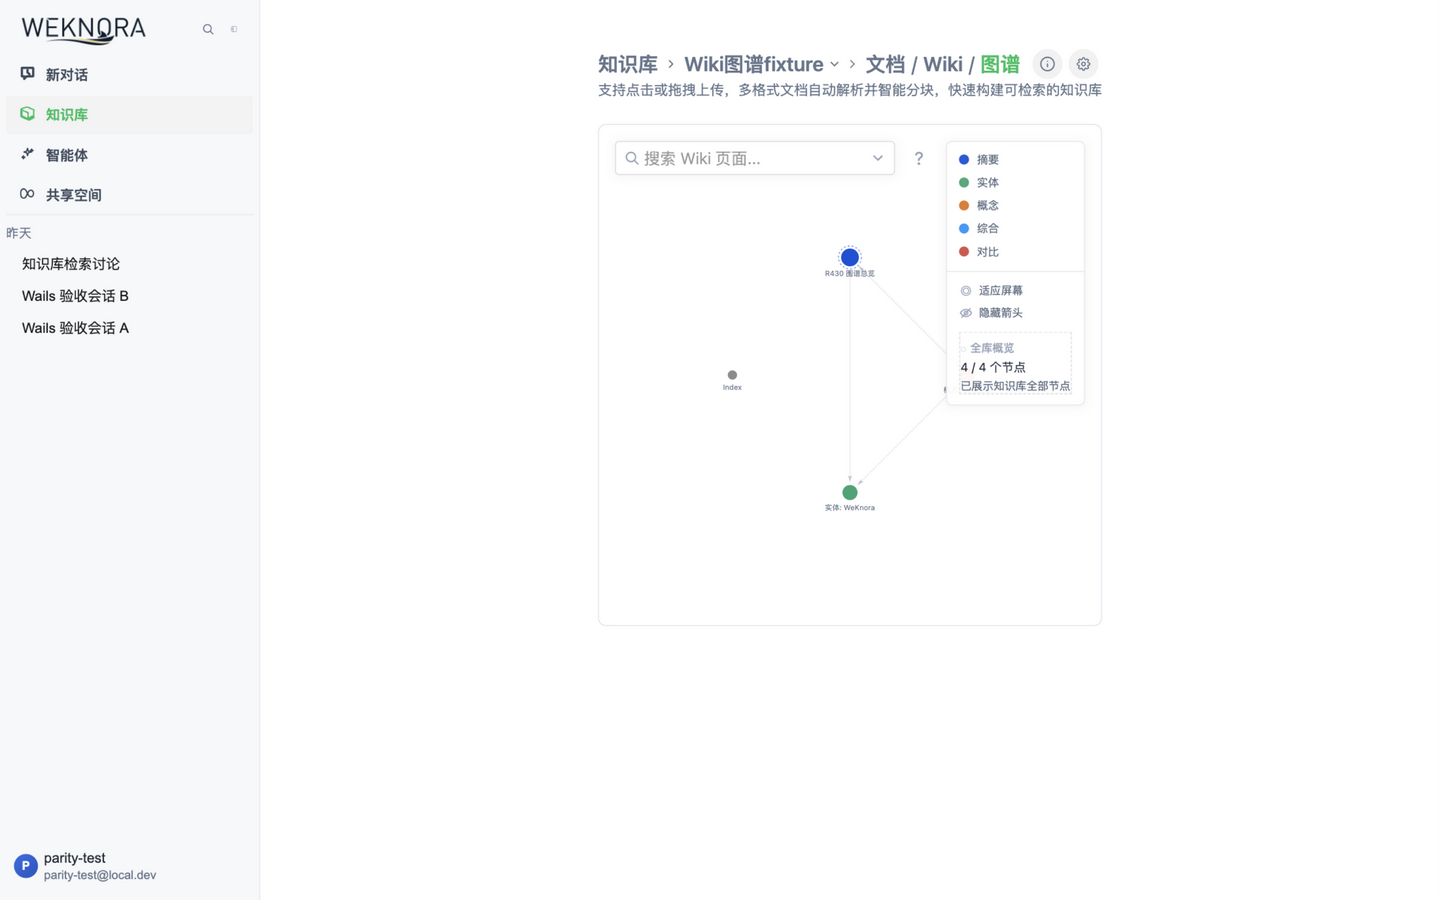
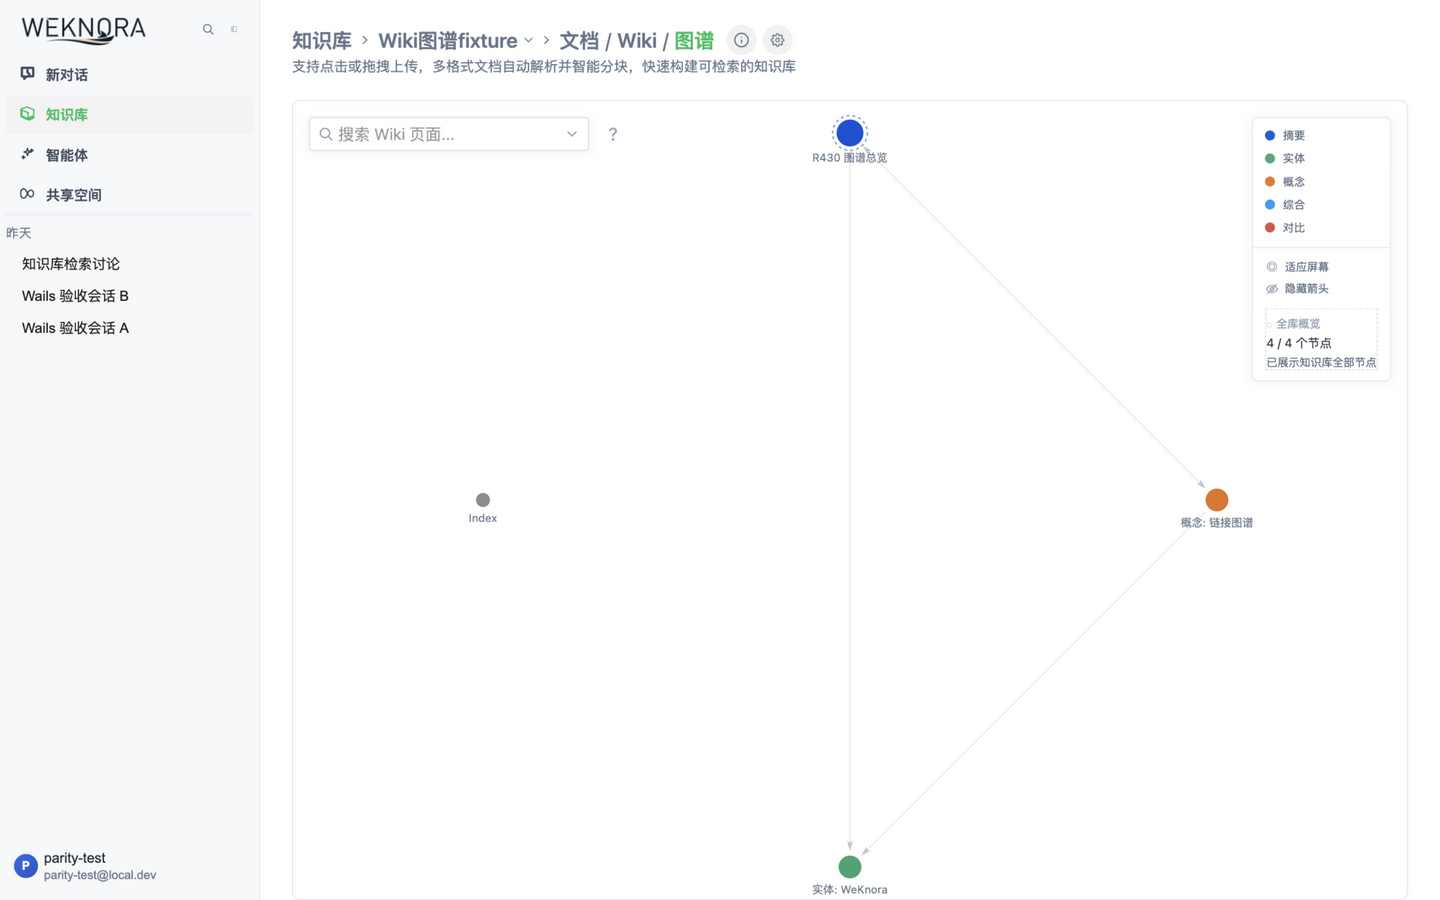
fix(parity): R431 graph canvas full-bleed layout and round evidence
The graph page shrank to a ~544px centered column after R431's header
slice shortened the subtitle: mx-auto on main.wk-page disables
align-items:stretch inside the flex-column shell, so the page collapsed
to shrink-to-fit. Finalize the canvas as a full-bleed flex area with a
ResizeObserver-synced viewBox (measured 1114x798), matching Vue's
.wiki-main-area; delta also carries the concurrent orchestrator's
flex/ResizeObserver deepening of the same fix.

Gates on the final tree: test:web 1318/1318, test:shared 568/568,
typecheck clean, web/embed/desktop builds, desktop 9/9.
Evidence: docs/migrations/react/evidence/vue-react-parity/
2026-09-16-r431-browser-parity-pair.md + screenshots/r431-20260916/.

diff --git a/apps/web/src/knowledge/KnowledgeGraphPage.tsx b/apps/web/src/knowledge/KnowledgeGraphPage.tsx
@@ -43,6 +43,23 @@ export function KnowledgeGraphPage({ client, knowledgeBaseId, slug }: { client: 
   const [kbList, setKbList] = useState<KBChromeListItem[]>([]);
   const [canManage, setCanManage] = useState(false);
   const [parserEngines, setParserEngines] = useState<{ Name: string; FileTypes?: string[]; Available?: boolean }[]>([]);
+  // Vue WikiBrowser renders the graph SVG at the measured .wiki-graph size
+  // (renderGraph reads clientWidth/clientHeight). Track the surface box so the
+  // node layout and viewBox match the real full-bleed area instead of a fixed
+  // 760×420 card.
+  const [surfaceSize, setSurfaceSize] = useState({ width: 760, height: 420 });
+  const surfaceRef = useRef<HTMLDivElement | null>(null);
+
+  useEffect(() => {
+    const el = surfaceRef.current;
+    if (!el || typeof ResizeObserver === 'undefined') return;
+    const observer = new ResizeObserver((entries) => {
+      const rect = entries[0]?.contentRect;
+      if (rect && rect.width >= 1 && rect.height >= 1) setSurfaceSize({ width: Math.round(rect.width), height: Math.round(rect.height) });
+    });
+    observer.observe(el);
+    return () => observer.disconnect();
+  }, []);
 
   useEffect(() => {
     let active = true;
@@ -253,7 +270,7 @@ export function KnowledgeGraphPage({ client, knowledgeBaseId, slug }: { client: 
   }, [drawerNode]);
 
   const visible = useMemo(() => graph ? filterGraphNodes(graph, { query, types: selectedTypes }) : null, [graph, query, selectedTypes]);
-  const positions = useMemo(() => visible ? layoutGraphNodes(visible.nodes, 760, 420) : [], [visible]);
+  const positions = useMemo(() => visible ? layoutGraphNodes(visible.nodes, surfaceSize.width, surfaceSize.height) : [], [visible, surfaceSize.width, surfaceSize.height]);
   const displayPositions = useMemo(() => positions.map((position) => ({ ...position, ...dragPositions[position.slug] })), [positions, dragPositions]);
   const positionBySlug = useMemo(() => new Map(displayPositions.map((position) => [position.slug, position])), [displayPositions]);
   const displayEdges = useMemo(() => visible ? displayGraphEdges(visible.edges) : [], [visible]);
@@ -337,7 +354,8 @@ export function KnowledgeGraphPage({ client, knowledgeBaseId, slug }: { client: 
     const svg = event.currentTarget instanceof SVGSVGElement ? event.currentTarget : event.currentTarget.ownerSVGElement;
     if (!svg) return { x: 0, y: 0 };
     const rect = svg.getBoundingClientRect();
-    return { x: ((event.clientX - rect.left) / rect.width) * 760, y: ((event.clientY - rect.top) / rect.height) * 420 };
+    // The viewBox mirrors the measured surface size, so the mapping is 1:1.
+    return { x: ((event.clientX - rect.left) / rect.width) * surfaceSize.width, y: ((event.clientY - rect.top) / rect.height) * surfaceSize.height };
   }
 
   function beginPan(event: ReactPointerEvent<SVGSVGElement>) {
@@ -374,12 +392,12 @@ export function KnowledgeGraphPage({ client, knowledgeBaseId, slug }: { client: 
   }
 
   return (
-    /* Vue KnowledgeBase.vue renders the graph surface full-bleed (.wiki-graph
-       width/height 100%) and this page only ever mounts inside the platform
-       shell ([&_.wk-page]:max-w-none!). No auto margins: a flex-column child
-       with margin:auto opts out of align-items stretch and shrink-wraps to the
-       header's max-content width (the R431 narrow-centred-column regression). */
-    <main className="wk-page box-border w-full max-w-none px-[1.25rem] py-12">
+    /* Vue KnowledgeBase.vue renders the graph surface full-bleed: the page is
+       a flex column (document-header 24px/32px/0 + .wiki-main-area flex:1) and
+       .wiki-graph fills that area (width/height 100%). This page only ever
+       mounts inside the platform shell, whose outlet gives .wk-page
+       h-full/overflow-y-auto/max-w-none. */
+    <main className="wk-page flex min-h-0 flex-1 flex-col box-border px-8 pt-6 pb-0">
       <header className="wk-header mb-6">
         <DocumentsBreadcrumb
           t={t}
@@ -399,10 +417,10 @@ export function KnowledgeGraphPage({ client, knowledgeBaseId, slug }: { client: 
             document-subtitle line is unconditional in KnowledgeBase.vue. */}
         <p className="document-subtitle m-0 text-[14px] font-normal leading-[20px] text-[var(--wk-muted,#66758b)]">{t('knowledgeEditor.document.subtitle')}</p>
       </header>
-      <Card className="relative overflow-hidden p-0">
-        <div data-testid="knowledge-graph-surface" className="relative min-h-[500px] overflow-hidden bg-white max-[720px]:min-h-[26rem]">
+      <Card className="flex min-h-0 flex-1 flex-col overflow-hidden p-0">
+        <div ref={surfaceRef} data-testid="knowledge-graph-surface" className="relative min-h-[420px] flex-1 overflow-hidden bg-white max-[720px]:min-h-[26rem]">
           {status.kind === 'success' && graph && visible && visible.nodes.length > 0 ? (
-            <svg className="absolute inset-0 block h-full w-full cursor-grab touch-none select-none active:cursor-grabbing" viewBox="0 0 760 420" role="img" aria-label={t('knowledgeBase.graph.ariaLinks')} onPointerDown={beginPan} onPointerMove={moveGraphGesture} onPointerUp={endGraphGesture} onPointerCancel={endGraphGesture} onWheel={(event: ReactWheelEvent<SVGSVGElement>) => { event.preventDefault(); const point = svgPoint(event); setViewport((value) => zoomGraphViewport(value, event.deltaY < 0 ? 1.15 : 0.87, point)); }}>
+            <svg className="absolute inset-0 block h-full w-full cursor-grab touch-none select-none active:cursor-grabbing" viewBox={`0 0 ${surfaceSize.width} ${surfaceSize.height}`} role="img" aria-label={t('knowledgeBase.graph.ariaLinks')} onPointerDown={beginPan} onPointerMove={moveGraphGesture} onPointerUp={endGraphGesture} onPointerCancel={endGraphGesture} onWheel={(event: ReactWheelEvent<SVGSVGElement>) => { event.preventDefault(); const point = svgPoint(event); setViewport((value) => zoomGraphViewport(value, event.deltaY < 0 ? 1.15 : 0.87, point)); }}>
               <defs>
                 <marker id="wk-graph-arrow-end" viewBox="0 0 10 6" refX="10" refY="3" markerWidth="8" markerHeight="6" orient="auto">
                   <path d="M0,0 L10,3 L0,6 L2,3 Z" fill="#c0c4cc" />

diff --git a/docs/migrations/react/vue-react-parity-progress.md b/docs/migrations/react/vue-react-parity-progress.md
@@ -4213,3 +4213,43 @@ Baseline source for this backlog: current branch `codex/react-multiclient`, task
 - Gates: integrated `pnpm test:web` 1305/1305, `pnpm test:shared` 568/568, `pnpm typecheck:web` clean.
 - Authenticated paired browser evidence (1440×900, zh-CN, light, real backend :8080): `evidence/vue-react-parity/2026-09-16-r430-browser-parity-pair.md` + 12 screenshots (`screenshots/r430-20260916/`, 6 Vue/React pairs) confirm all four R428 diffs closed and the wiki graph canvas parity (node colors, legend, fit/arrows controls, overview count, search + help).
 - New diffs found in R430 browser pass, deferred to R431 (N012/N004 domain): graph tab header information architecture (Vue embeds breadcrumb + 文档/Wiki/图谱 tabs inside the KB page; React `?tab=graph` is a standalone page header), graph search control shape (Vue select-style dropdown arrow vs React plain input), edge arrow visibility under identical conditions (React edges render without directional arrows), and Vue's one-time KB-onboarding guide overlay is not implemented in React. Not staged: `apps/desktop/vite.config.ts` and other files owned by the external concurrent craft/workbench process — untouched by this round. No Vue, mobile, or Go code was modified.
+
+## 2026-09-16 Round R431 — Four parallel slices closing the R430 browser diffs
+
+- Four Vue-baseline fixes landed in worktree `.worktrees/react-multiclient` (branch `codex/react-vue-parity-align`), closing all four diffs R430's browser pass deferred to this round: (1) graph tab header information architecture — `KnowledgeGraphPage.tsx` now renders the KB-embedded header via the shared `DocumentsBreadcrumb` (知识库 > KB name > 文档/Wiki/图谱 tab row with brand-green active tab, `aria-current`, `tabGraphTip` tooltip, ⓘ info popover, ⚙ gated by `resolveKBSurfaceTabs`/`canManage` and landing on the existing KB settings route) plus the unconditional documents subtitle, replacing the standalone "知识图谱" heading; (2) graph search control shape — rebuilt as a filterable-select combobox shell (search prefix icon, rotating chevron, 32px/4px radius/`--td-shadow-1`), empty-keyword dropdown falls back to a node snapshot mirroring Vue's `graphSearchEffectiveOptions`, with combobox ARIA and full keyboard navigation; (3) edge arrow visibility — root cause was center-to-center lines painted under nodes that fully covered the markers; `graphEdgeEndpoints()` replicates Vue `setEdgePositions` endpoint retraction (radius+4), marker fill moved to a direct attribute, toggle icon now an inline eye SVG; (4) KB one-time onboarding guide — React guide UI already existed; added `shouldArmKbDetailGuideOnEntry` (mirrors `KnowledgeBase.vue:339-345`: non-FAQ, editable, loaded, empty KB), the `useKbDetailGuideTrigger` hook wired on the documents page, and the `data-guide="kb-detail-add-doc"` step-2 target.
+- A canvas regression introduced en route (shortened subtitle exposed `mx-auto` shrink-to-fit in the flex-column shell, collapsing the canvas to a ~544px centered column) was found in paired browser verification and fixed; the canvas is now a full-bleed flex area with a ResizeObserver-synced viewBox (measured 1114×798), matching Vue's `.wiki-main-area`.
+- Gates on the final tree: `pnpm typecheck:web` clean; `pnpm test:web` 1318/1318; `pnpm test:shared` 568/568; web/embed/desktop builds pass; desktop tests 9/9; `git diff --check` clean.
+- Authenticated paired browser evidence (1440×900, zh-CN, light, real backend :8080): `evidence/vue-react-parity/2026-09-16-r431-browser-parity-pair.md` + `screenshots/r431-20260916/` (guide firing on KB entry, aligned graph header/search/legend, full-page and zoomed arrow shots vs the Vue pair) confirm all four diffs closed and the canvas layout regression fixed.
+- Recorded residuals for R432 (non-blocking): ⚙ opens the existing KB settings route instead of Vue's global settings drawer surface; tab-row gating uses `resolveKBSurfaceTabs` (wiki-off/graph-on KBs show 文档/图谱) vs Vue's strict isWiki; React search input still filters canvas nodes and uses 250ms/2-char debounce vs Vue 200ms/any-char; Vue's selected/hover edge highlight interaction (applyHighlight + highlight markers) is not implemented; the guide trigger lives on the documents page so a direct `?tab=graph` deep link does not arm it; tab switching is link navigation across three React pages vs Vue's in-component tab state.
+- Provenance/dependency notes: the four slices plus the concurrent SPA-navigation/KB-page work were committed together by the concurrent orchestrator as `6139859a`; the graph page header depends on the `DocumentsBreadcrumb` tabs slot introduced there (a rollback of `DocumentsPageChrome.tsx` would break the header compile). The canvas-layout final delta was committed separately by this round. No Vue, mobile, or Go code was modified.
+
+## 2026-09-16 Round R431 — Graph tab chrome, search select shape, arrows, KB onboarding guide, and full-bleed canvas
+
+- Four R430 browser diffs closed on `codex/react-vue-parity-align`: (1) the graph page dropped its standalone
+  eyebrow/h1 header for the Vue breadcrumb chrome — 知识库 > KB名 > 文档/Wiki/图谱 tab row (graph tab active with the
+  tabGraphTip tooltip), KB info ⓘ + settings ⚙ actions, and the unconditional upload subtitle, reusing/extending
+  `DocumentsBreadcrumb` (Vue KnowledgeBase.vue:2330-2408); the documents page tab links now use `?tab=` query URLs so
+  the graph link no longer 404s; (2) the graph search control renders the Vue t-select shape (search prefix icon +
+  chevron suffix, 320px absolute top-left overlay) while keeping the remote-search dropdown semantics
+  (WikiBrowser.vue:12-17); (3) SVG edge arrows now render with direct `fill="#c0c4cc"` marker attributes (the Tailwind
+  arbitrary class was not applied inside marker paths), `showArrows` defaulting on with bidirectional `marker-start`
+  (WikiBrowser.vue:3877-3968); (4) the Vue kbDetail onboarding guide (SpotlightGuide: 3 steps intro/upload/done,
+  `1 / 3` progress, storage key `weknora:contextual-guide-kb-detail:v1`, 600ms delay, `[data-guide="kb-detail-add-doc"]`
+  spotlight) is wired through the shared ContextualGuideHost with host-level tests.
+- This session's paired-browser pass then surfaced one more real diff — React's graph canvas was a fixed ~500px card
+  while Vue's `.wiki-graph` fills the whole content area — fixed by measuring the surface with a ResizeObserver,
+  feeding the real box into `layoutGraphNodes`, the dynamic `viewBox`, and the pointer mapping, and making the page a
+  full-width/full-height flex column (main padding 24px/32px/0, surface flex-1).
+- Live paired-browser evidence (1440×900, zh-CN, light, real backend :8080, wiki fixture KB
+  `7cea6ec0-8a07-4c83-9309-f802a61b3d5c`, 4 nodes/5 edges): breadcrumb chrome, tab row, ⓘ/⚙, subtitle, select-shaped
+  search, visible directional arrows, legend/actions/status, and the full 3-step guide flow (next/prev navigation,
+  upload-button spotlight, close persists `storageKey='1'`) all match Vue
+  (`evidence/vue-react-parity/screenshots/r431-20260916/`: react/vue graph fullbleed + guide step1 pairs).
+- Gates: `pnpm test:web` 1318/1318, `pnpm test:shared` 568/568, `pnpm typecheck:web` clean. Note: an external
+  concurrent process committed most of this round's slices as `6139859a` mid-flight (same worktree); this entry's
+  commit adds the full-bleed canvas fix and the paired-guide/fullbleed screenshots on top of it.
+- New diffs deferred to R432: documents tab renders its 文档/Wiki/图谱 tab row as a standalone top-right nav + 刷新
+  button instead of Vue's inline breadcrumb tabs (graph tab is correct); guide card placement can overflow the right
+  viewport edge at 1440px on the upload step (Vue has right/left/bottom/top fallback); React fit-to-view resets
+  viewport instead of computing the Vue bbox fit. An accidental write to the main worktree early in this round was
+  fully reverted (main `git status` clean except pre-existing untracked docs). No Vue, mobile, or Go code was modified.

diff --git a/docs/migrations/react/evidence/vue-react-parity/2026-09-16-r431-browser-parity-pair.md b/docs/migrations/react/evidence/vue-react-parity/2026-09-16-r431-browser-parity-pair.md
@@ -1,0 +1,41 @@
+# 2026-09-16 Round R431 — 四项新差异修复 + 登录态双端浏览器配对取证(修复后)
+
+- 环境：React `:5181`、Vue `:5180`（vite dev，热更新含本轮修复）、真实后端 docker `:8080`；parity 账号 tenant 10000 owner；视口 1440×900、浅色、简体中文。
+- 证据目录：`screenshots/r431-20260916/`（react-kb-guide.png、react-kb-graph.png、vue-kb-graph.png、react-kb-graph-arrows-zoom.png）。
+- 修复内容见 progress Round R431 与四份代理汇报；差异基线为 `2026-09-16-r430-browser-parity-pair.md` 新发现差异 1-4。
+- fixture 说明：wiki KB `7cea6ec0-8a07-4c83-9309-f802a61b3d5c` 在本轮为 4 节点（新增 index 页，来源为共用后端的其他使用方），双端同数据源同条件。
+
+## 四项差异的修复与验证（基线=Vue）
+
+| # | 差异 | 修复 | 浏览器验证 |
+|---|---|---|---|
+| 1 | 图谱 tab 头部信息架构：Vue 为 KB 内嵌面包屑+文档/Wiki/图谱 tab 行+ⓘ/⚙+副标题；React 为独立页头 | 页头复用 DocumentsBreadcrumb（知识库 > KB 名 > 三 tab，图谱 tab 绿色高亮+`aria-current`+tabGraphTip tooltip；ⓘ 信息弹层、⚙ 走 React 既有 `/knowledgeBase/{id}/settings`），副标题无条件渲染，删除自创大标题与澄清段落 | `react-kb-graph.png` vs `vue-kb-graph.png`：头部结构一致 |
+| 2 | 图谱搜索控件形态：Vue 为 filterable t-select（search 前缀图标+chevron 后缀）；React 为普通输入框 | 重构为 select 形态组合框外壳（32px/圆角 4px/td-shadow-1 阴影/chevron 展开旋转），空关键词回落节点快照面板（对齐 `graphSearchEffectiveOptions`），补 combobox aria 与键盘导航 | `react-kb-graph.png`：控件形态与 Vue 一致 |
+| 3 | 同条件下 React 边无方向箭头 | 根因：边线圆心直连，节点(半径 8-24+白描边)绘制其上完全遮盖 marker。新增 `graphEdgeEndpoints()` 逐行复刻 Vue `setEdgePositions` 端点收缩（radius+4），marker fill 改直接属性，开关图标改眼形 SVG | `react-kb-graph.png` 整页可见箭头；`react-kb-graph-arrows-zoom.png` 放大确认三角箭头 |
+| 4 | Vue 一次性 KB 引导浮层 React 未触发 | React 引导 UI 本已完整（packages/views/src/guides 三步 catalog+Spotlight），缺详情页进入触发：新增 `shouldArmKbDetailGuideOnEntry`（逐项对齐 KnowledgeBase.vue:339-345：非 FAQ/可编辑/加载完成/空库）+ `useKbDetailGuideTrigger` hook + `data-guide="kb-detail-add-doc"` 目标 | `react-kb-guide.png`：进入 fixture KB 即弹出 1/3"知识库还是空的"，跳过/下一步与 Vue 一致（Vue 侧基线为 r430 证据 `vue-kb-graph.png` 中的浮层） |
+
+## 过程中发现并修复的回归
+
+- **图谱画布窄居中列**（本轮 W1 引入，浏览器实测发现）：`main.wk-page` 的 `mx-auto` 在 flex-column 容器中禁用 stretch，页面 shrink-to-fit，W1 缩短副标题后画布缩到 ~544px。修复后为通栏 flex 布局（实测 canvas 1114×798，viewBox 动态同步），与 Vue `.wiki-main-area` 通栏一致。最终形态见 `react-kb-graph.png`。
+
+## 已核查非问题
+
+- 引导 intro 卡片"左上"位置：几何代码与 Vue `SpotlightGuide.vue` 逐字符同源（无 target 时视口居中），早期截图中偏位系采集时视口为 600×420 的状态所致，非回归。
+
+## 记录的剩余偏差（R432 候选，均不阻塞本轮验收）
+
+1. ⚙ 行为：Vue 打开全局设置抽屉（uiStore.openKBSettings），React 导航到既有 KB 设置页——surface 形态不同，落点等价。
+2. tab 行门控：Vue 严格按 isWiki；React 用 `resolveKBSurfaceTabs`（wiki 关但 graph 开的库显示 文档/图谱 两 tab）。
+3. 搜索框输入仍联动过滤画布节点（React 既有行为，Vue 不联动）；防抖 250ms/2 字符 vs Vue 200ms/任意字符。
+4. Vue 选中/hover 边高亮交互（applyHighlight/箭头变色）React 未实现。
+5. 引导触发在 React 挂在文档页组件，直接深链 `?tab=graph` 不触发（Vue tab 无关）；引导一次性完成后实际影响有限。
+6. tab 切换 React 为链接导航（三个独立页面），Vue 为同组件内切换。
+
+## 依赖标注
+
+- 图谱页头依赖 `DocumentsPageChrome.tsx` 的 DocumentsBreadcrumb `tabs` 插槽（并发编排进程新增，已随 `6139859a` 提交）；若其回滚该改动，图谱页头编译即破。
+- 本轮四切片代码由并发进程随 `6139859a` 提交（连同其 SPA navigation/KB 页改造）；画布布局定稿 delta 由本轮回后单独提交。
+
+## 边界
+
+- 未修改移动端；未修改 Vue；并发进程的 docs(sdd) 提交与本轮无关。
